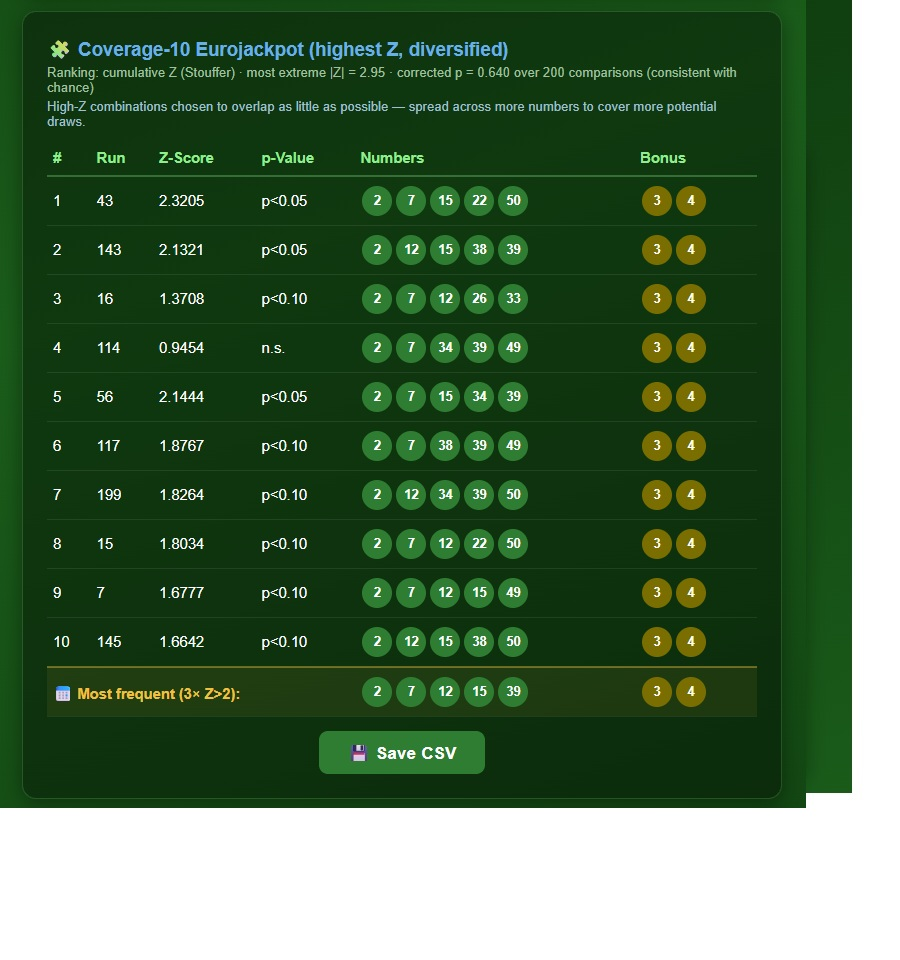
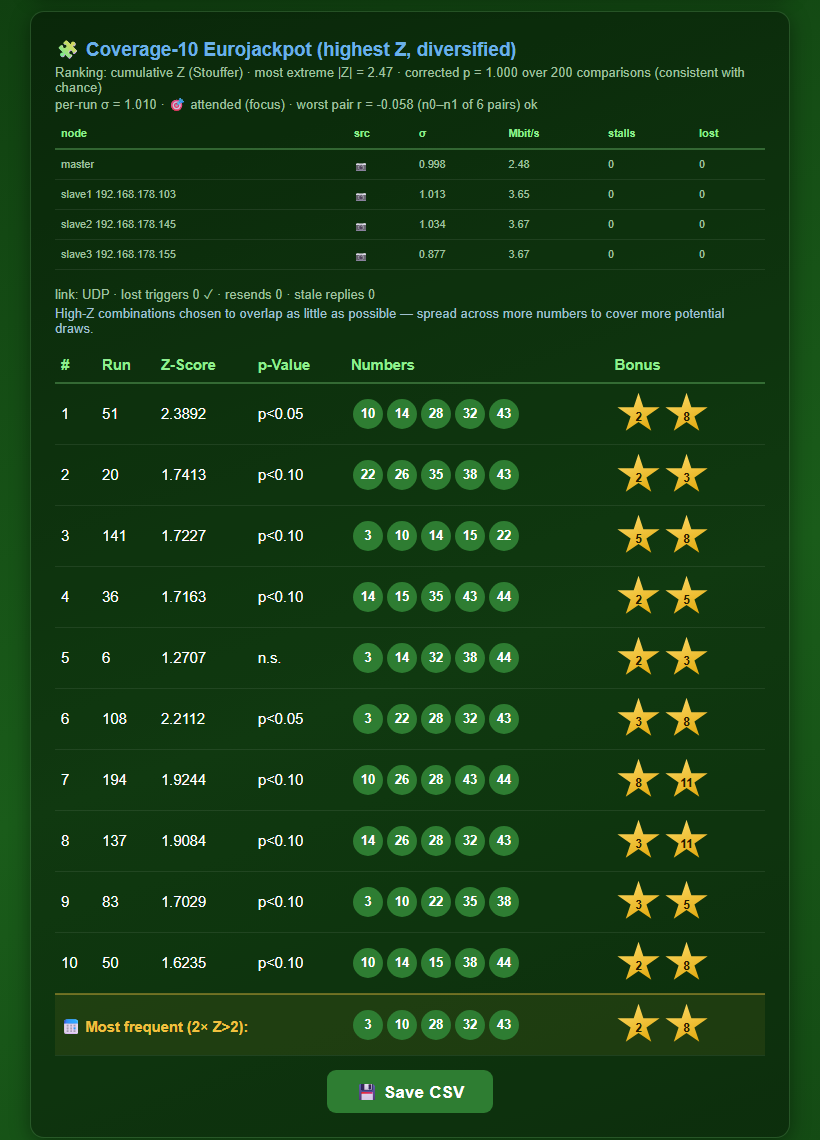
docs: refresh screenshots, add the Focus panel, record the window swing
All four existing images regenerated from a real Eurojackpot session (200 runs,
4 nodes on camera, focus=1) and a new docs/ui_focus.png added showing the panel
mid-measurement — the draw on screen, euro numbers as stars, and the
window/gap/missed line underneath.

Captured headless against the live node
(chrome --headless=new --screenshot --virtual-time-budget), so it is repeatable.
One trap worth the note in the plan: do not reflash the master between running
the session and taking the shot, since an OTA reboot clears g_status and the
results go with it.

Bonus numbers are now stars in the result tables too, not only in the Focus
panel — a draw that reads one way live should read the same way afterwards.
Sized 44x42 at .82em after comparing three variants: the shipped 36px was too
cramped for a two-digit bonus, and drawing the star as a glyph behind the text
put the digits across its arms.

Also records what the calibration kept telling me: at the final configuration
three consecutive sessions on an unchanged binary measured 1045 / 679 / 1046 ms
for the same 11950 segments. That is a 1.54x swing within an hour, so the window
holds to about +-35%, not +-10% — which is why focus_win_ms is published rather
than the constant being trusted.

diff --git a/main/elotto.c b/main/elotto.c
@@ -70,7 +70,15 @@ static const char HTML[] =
 ".num{display:inline-flex;align-items:center;justify-content:center;"
 "background:#2e7d32;border-radius:50%;width:30px;height:30px;margin:2px;"
 "font-weight:700;font-size:.88em;flex-shrink:0}"
-".euro{background:#7b6e00}"
+// Bonus numbers are stars in the result tables too, not only in the Focus
+// panel — same reason (1-12 overlaps 1-50, so shape carries the distinction),
+// and a draw that reads one way live should read the same way afterwards.
+// Slightly wider than a main circle with smaller type: a star's readable area
+// is its inner pentagon, so a two-digit bonus needs the extra room.
+".num.euro{background:linear-gradient(160deg,#ffdc6a,#dda200);color:#241c00;"
+"border-radius:0;width:44px;height:42px;font-size:.82em;padding-top:7px;"
+"clip-path:polygon(50% 0%,61% 35%,98% 35%,68% 57%,79% 91%,50% 70%,21% 91%,"
+"32% 57%,2% 35%,39% 35%)}"
 // Focus panel (PLAN_4NODE Phase 5). Salience over legibility: the observer is
 // not meant to decode six numbers in half a second, they are meant to be
 // present while those numbers are on screen and the noise is sampled. So the

diff --git a/docs/PLAN_4NODE.md b/docs/PLAN_4NODE.md
@@ -311,9 +311,13 @@ Being explicit, so this is not mistaken for a passed gate:
    expect `src_stalled`, session ABORTED, UI "⚠ camera stalled – aborted", and — with the slave
    unplugged instead — the same via its `T` tag. Minutes of work, and it is the difference
    between a policy that is implemented and one that is known to fire.
-2. **Refresh `docs/ui_done.png` and `docs/coverage_*.png`** from any real session — the current
-   images predate the entropy and drift rows in the stats line. `docs/ui_start.png` is already
-   updated (Entropy selector).
+2. ~~**Refresh `docs/ui_done.png` and `docs/coverage_*.png`**~~ — **DONE (2026-07-26)**. All
+   four regenerated from a real Eurojackpot session (200 runs, 4 nodes, camera, `focus=1`), plus
+   a new `docs/ui_focus.png` of the Focus panel mid-measurement. Captured headless
+   (`chrome --headless=new --screenshot --virtual-time-budget=…` against the live node), so this
+   is repeatable rather than a one-off manual grab — note the master must **not** be reflashed
+   between running the session and taking the shot, since an OTA reboot clears `g_status` and
+   with it the results.
 3. **Optional, open since Phase 0: attack the residual LSB bias at the source** rather than
    masking it with the XOR-fold — RAW10 instead of RAW8, or bypassing ISP digital gain. A/B it
    by turning `CONFIG_ELOTTO_CAM_XOR_FOLD` off; success would double the honest bit rate as a
@@ -629,11 +633,15 @@ It was left at 200 ms because the cost is real rather than nominal: 850 × 150 m
 taking a measurement loop from 10.5 to ~12.6 min against a 10 min budget. Open decision, not an
 oversight.
 
-**4. ⚠ The window is not stable across a day, and this is unresolved.** Under otherwise
-identical settings the achievable window moved by up to **1.75×** over an afternoon of
-back-to-back sessions (11600 segments → 588 ms early, 11950 segments → 1026 ms hours later, with
-a *longer* gap, which should have made it faster). Each session began after an OTA reboot, so
-cumulative camera state is ruled out; thermal or SoC-level load is the remaining suspect. Note
+**4. ⚠ The window is not stable, and this is unresolved.** Under otherwise identical settings
+the achievable window moved by up to **1.75×** over an afternoon of back-to-back sessions
+(11600 segments → 588 ms early, 11950 segments → 1026 ms hours later, with a *longer* gap, which
+should have made it faster). It is not only a slow drift: at the **final** configuration
+(11950 segments, 350 ms gap, unchanged binary) three consecutive sessions measured **1045 ms,
+679 ms and 1046 ms** — a 1.54× swing inside an hour, with the short one immediately following an
+OTA reboot. So the spread is roughly ±35 % around the target, which is why ±10 % is not a
+tolerance this hardware can hold and ±30 % is the honest one. Each session began after a reboot,
+so cumulative camera state is ruled out; thermal or SoC-level load is the remaining suspect. Note
 also that `camera_get_stats()`'s `mbit_per_sec` and `bias` are **lifetime averages since stream
 start**, not instantaneous — do not read a falling `mbit_s` as live degradation, which is a trap
 worth knowing about. The consequence is that **a fixed segment count does not pin the window**;

diff --git a/README.md b/README.md
@@ -85,10 +85,30 @@ ranking, so in Peak-Z mode the coverage tables are empty.
 <td><img src="docs/ui_done.png" width="390"></td>
 </tr>
 <tr>
-<td>Inputs: <b>Baseline runs</b>, <b>Loops</b>, <b>Runs</b> (0 = all) and the
-<b>Ranking</b> mode, then the Euro-Lotto / 6-of-49 buttons.</td>
-<td>The three phases — calibration, number scoring, measurement — each fill to 100&nbsp;% with
-a ✔, plus runs / progress / time / ETA.</td>
+<td>Inputs: <b>Baseline runs</b>, <b>Loops</b>, <b>Runs</b> (0 = all), the
+<b>Ranking</b> mode, the <b>Entropy</b> source and the <b>Focus display</b> checkbox, then the
+Euro-Lotto / 6-of-49 buttons.</td>
+<td>The stats line records the session's condition (<i>attended (focus)</i> vs
+<i>unattended (control)</i>), per-run σ, the worst of the six pairwise correlations, the
+per-node health table and UDP link health.</td>
+</tr>
+</table>
+
+### Focus display
+
+<table>
+<tr><td align="center"><b>What is being measured, while it is being measured</b></td></tr>
+<tr><td><img src="docs/ui_focus.png" width="620"></td></tr>
+<tr>
+<td>The current target is held for exactly the window its bits are collected in — a single
+candidate number during scoring, the whole draw during measurement — so the observer is present
+while the noise is sampled (the original GCP/PEAR protocol). Eurojackpot's 1–12 bonus numbers
+are <b>stars</b> rather than circles: the two pools overlap in value, so shape is what separates
+them at a glance. The line underneath is the instrument's own check —
+<code>window · gap · windows · missed</code> — where <b>missed</b> counts windows the UI never
+saw, the failure that would credit an effect to the wrong combination. <b>Pause</b> holds
+between runs without losing the loop; paused time is excluded from the elapsed clock.
+See <a href="docs/PLAN_4NODE.md">PLAN_4NODE.md</a> Phase 5.</td>
 </tr>
 </table>
 
@@ -873,8 +893,9 @@ partitions.csv — shared partition table: factory (updater) + ota_0/ota_1, used
 docs/
   PLAN_4NODE.md      — the camera-entropy design contract: phases, gates, decisions
   PLAN_NETWORK.md    — the transport/provisioning contract: UDP sync, Ethernet OTA
-  ui_start.png       — start screen (inputs + mode buttons)
-  ui_done.png        — a finished run (three phase bars complete)
+  ui_start.png       — start screen (inputs, entropy source, Focus checkbox, mode buttons)
+  ui_focus.png       — Focus panel mid-measurement: draw on screen, euro numbers as stars
+  ui_done.png        — a finished run: condition tag, per-node health, UDP link health
   coverage_high.png  — Coverage highest-Z table + significance + most-frequent
   coverage_low.png   — Coverage lowest-Z table
 build.ps1     — build helper script for standard PowerShell
